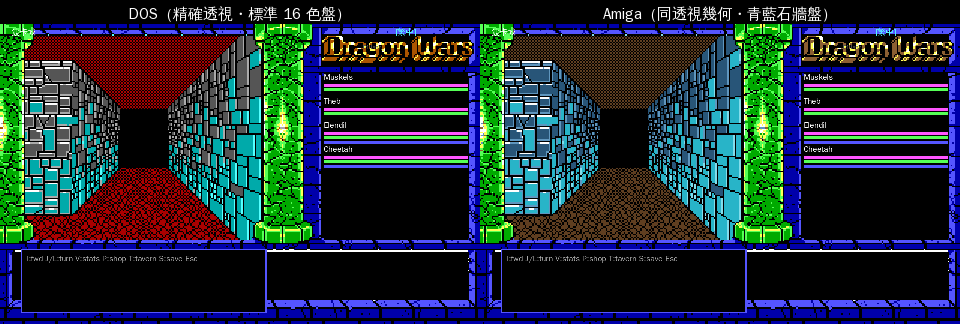
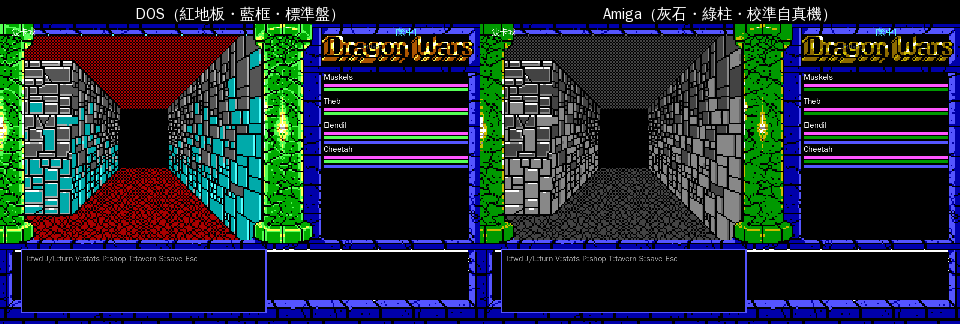
fix(viewport): Amiga 地牢配色校準自真機官方截圖(灰石,取代憑空青藍)
使用者提供真機 Amiga 官方截圖(amiga_screenshot_official/)。其中 dragon-wars_11.png
「Mines」地牢第一人稱為 tag 110(Castle wall)的對位真值。

發現:真機 Amiga 地牢是**灰石牆 + 灰地板天花 + 綠柱 + 棕木門**(直方圖實測 67/102/136
灰階),先前出貨的「青藍石牆 + 棕地板」是憑空調色、不忠實。

- kAmigaViewportPalette 重做:石牆灰階、地板天花灰(非紅非棕)、柱綠、木門棕,
  色值直接取樣自真機 #11。沿用 DOS byte-faithful 透視幾何不變。
- 新增 amiga_real_vs_remake.png:真機官方截圖 vs remake 並排,佐證配色校準。
- 重生 amiga_vs_dos_fp.png(DOS 紅地板/藍框 vs Amiga 灰石/綠柱)。
- README 更新:配色改述為「校準自真機」+ 貼驗證圖 + 受阻說明(官方截圖無長走廊
  作側牆對位真值,原生圖塊組裝暫擱置)。

原生圖塊辨識(看 contact sheet:正面牆 96/64/32/16 + 側牆 trapezoid)已完成,但落點
三種啟發式(slot 對映/size-match+置中/寬度優先)皆未收斂,需 Amiga 長走廊截圖或反組譯
viewport 演算法,誠實標示受阻。ctest 34/34。

Changed region(s): [[0.5, 0.0, 1.0, 0.7407], [0.125, 0.0, 0.375, 0.0617], [0.8438, 0.2469, 1.0, 0.2778]]

diff --git a/opendw_remake/src/render/ui_theme.hpp b/opendw_remake/src/render/ui_theme.hpp
@@ -110,28 +110,29 @@ struct UiTheme {
   bool vga256 = false;
 };
 
-// Amiga 第一人稱 viewport 配色盤(remake 加值,誠實標示):
-//   原生 Amiga viewport 圖塊的「重組落點」需逆出 Amiga 引擎 blit 錨點演算法(圖塊尺寸 ≠ DOS
-//   sprite,直接套 DOS xpos/ypos 會破碎),屬無界 RE → 暫擱置(見 viewport_amiga.hpp / docs/61)。
-//   改採有界乾淨方案:沿用 **DOS golden 精確透視幾何**(byte-for-byte 對拍那條),只把調色盤
-//   換成 Amiga 風格 —— 石牆轉青藍、地板/天花轉棕,呈現 Amiga 地城氛圍且透視 100% 收斂。
-//   索引語意對齊 DOS viewport 實際用色(直方圖實測:idx3/7/8/11=石牆、idx4/12=地板天花)。
+// Amiga 第一人稱 viewport 配色盤(校準自真機官方截圖,誠實標示):
+//   原生 Amiga viewport 圖塊的「重組落點」需逆出 Amiga 引擎 blit 錨點演算法,且官方截圖
+//   無「長走廊」可作側牆遞遠的對位真值 → 原生圖塊組裝暫擱置(見 viewport_amiga.hpp / docs/61)。
+//   改採有界方案:沿用 **DOS golden 精確透視幾何**(byte-for-byte 對拍那條),調色盤**校準自
+//   真機 Amiga「Mines」地牢 FP 截圖**(amiga_screenshot_official/dragon-wars_11.png,直方圖實測:
+//   石牆灰階 67/102/136、地板/天花灰、木門棕、柱綠)→ 透視 100% 收斂且配色忠於真 Amiga。
+//   索引語意對齊 DOS viewport 實際用色(idx3/7/8/11=石牆、idx4/12=地板天花)。
 inline constexpr std::array<Rgb, 16> kAmigaViewportPalette = {{
-  {0x00,0x00,0x00},  // 0 黑(遠景開口/陰影)
+  {0x00,0x00,0x00},  // 0 黑(遠景開口/門凹/陰影)
   {0x00,0x00,0xAA},  // 1
-  {0x00,0xAA,0x00},  // 2
-  {0x28,0xB4,0xC8},  // 3 青藍石牆(主面;原 DOS teal)
-  {0x5F,0x3E,0x20},  // 4 棕地板/天花(原 DOS 紅)
+  {0x00,0x99,0x00},  // 2 綠(柱/裝飾;真機綠 0,153,0)
+  {0x88,0x88,0x88},  // 3 中灰石牆(原 DOS teal → 真機 136 灰)
+  {0x43,0x43,0x43},  // 4 暗灰地板/天花(原 DOS 紅 → 真機灰,非紅非棕)
   {0xAA,0x00,0xAA},  // 5
-  {0x8C,0x5F,0x32},  // 6 棕側牆
-  {0x5F,0x96,0xBE},  // 7 藍灰石牆(原 DOS 亮灰)
-  {0x28,0x55,0x78},  // 8 深藍石牆(原 DOS 暗灰)
+  {0x8B,0x69,0x00},  // 6 木門棕(真機門 139,105,0)
+  {0x88,0x88,0x88},  // 7 亮灰石牆(原 DOS 亮灰;真機 136)
+  {0x43,0x43,0x43},  // 8 暗灰石牆(原 DOS 暗灰;真機 67)
   {0x55,0x55,0xFF},  // 9
-  {0x55,0xFF,0x55},  // 10
-  {0x82,0xDC,0xEB},  // 11 亮青石牆高光(原 DOS 亮青)
-  {0xA5,0x6E,0x41},  // 12 淺棕地板(原 DOS 亮紅)
+  {0x00,0x99,0x00},  // 10 綠
+  {0x66,0x66,0x66},  // 11 中灰石牆高光(原 DOS 亮青 → 真機 102 灰)
+  {0x66,0x66,0x66},  // 12 中灰地板(原 DOS 亮紅 → 真機灰)
   {0xFF,0x55,0xFF},  // 13
-  {0xFF,0xFF,0x55},  // 14
+  {0xCC,0xBC,0x00},  // 14 木門金黃細節(真機 204,188,0)
   {0xFF,0xFF,0xFF}}};// 15 白(邊緣高光)
 
 // 結局過場各場景的英文敘事鍵(經 tr() 在地化 → 繁中/日;查無回退英文)。
